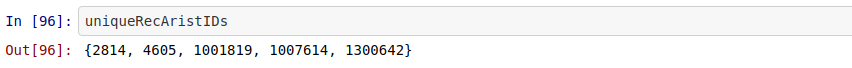
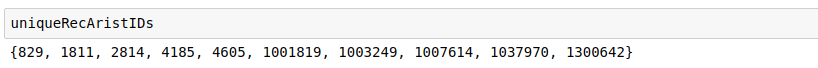
Generate new screenshots with 10 recommendations

diff --git a/README.md b/README.md
@@ -5,6 +5,6 @@ A MatrixFactorization based recommendation system trained on implicit feedback d
 - Results from the logs generated by AWS EMR
 ![](./results_from_aws_emr.png)
 - For results generated by execution on cloudera VM, see the jupyter notebook as well
-![](./results_from_local_execution.png)
+![](./results_from_local_execution_1.png)
 
 **(The ids of the recommended arrtists are same as given in the book. The ids of the recommended artists in the book are: 1300642, 2814, 1037970, 1001819, 4605)**
